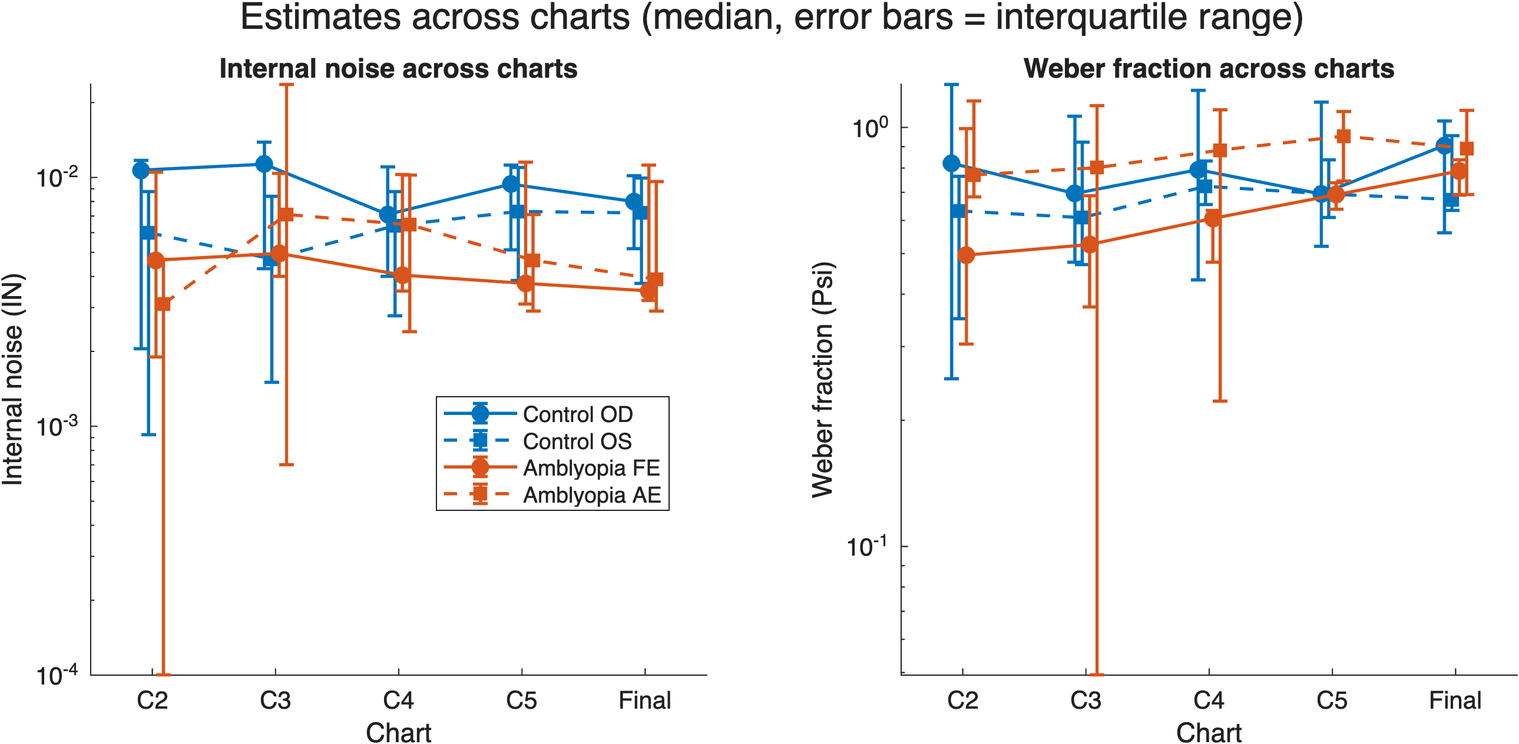
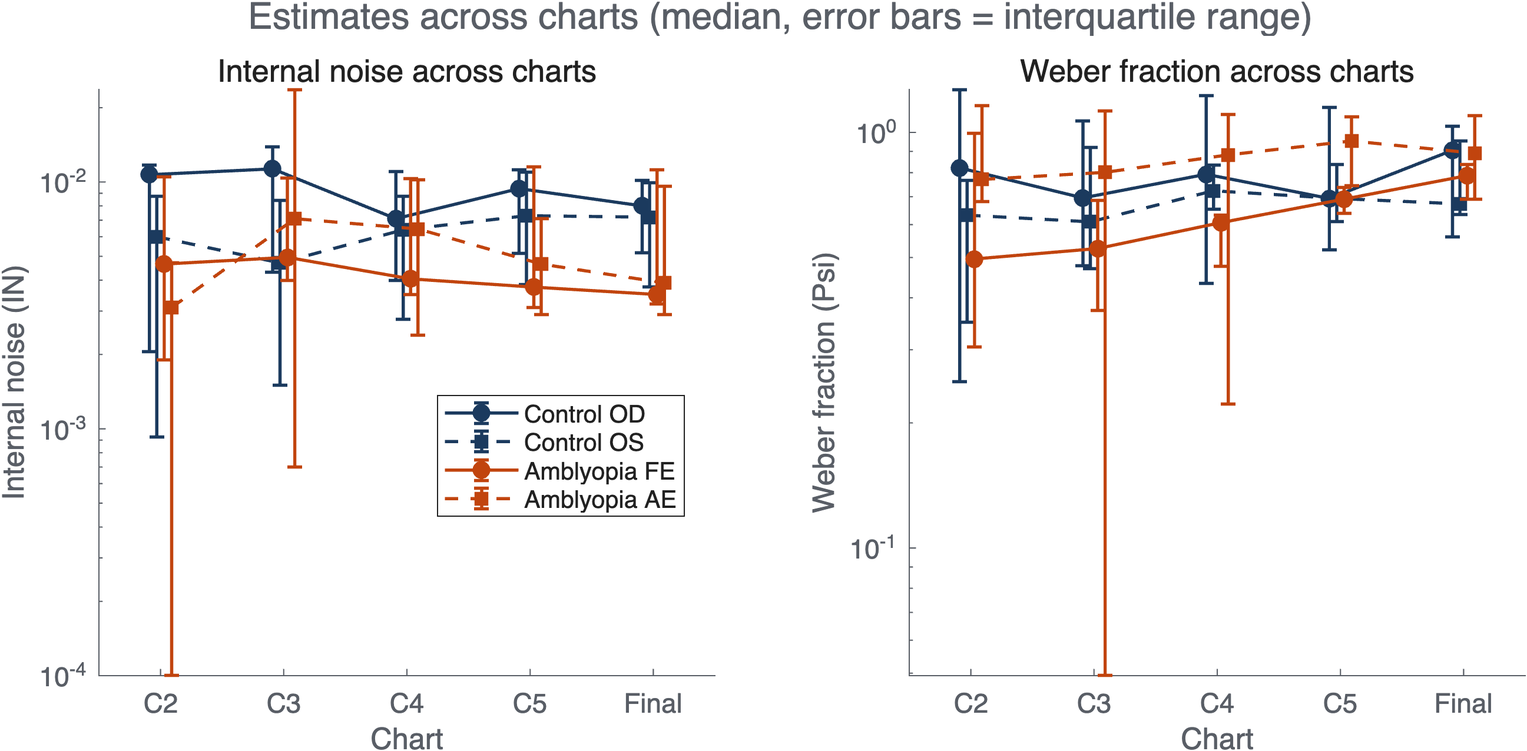
Restyle MATLAB figures to match dashboard theme; remove interocular-gap/age sections from dashboard

diff --git a/dashboard.html b/dashboard.html
@@ -260,30 +260,6 @@
 
   <hr class="rule">
 
-  <p class="q-eyebrow">QUESTION 3</p>
-  <h2 class="question">Is the interocular gap itself bigger in amblyopia?</h2>
-  <p class="question-sub">
-    Per-subject |eye1 &minus; eye2| magnitude (|AE&minus;FE| for amblyopes, |OD&minus;OS| for controls), compared
-    between groups &mdash; independent of which specific eye-pair comparison above. Kept as its own result,
-    not pooled into the Holm family above (matches analyze_WF_internal_noise.m's separate comparison family).
-  </p>
-  <table class="data-table" id="interocularTable"></table>
-
-  <hr class="rule">
-
-  <p class="q-eyebrow">QUESTION 4</p>
-  <h2 class="question">Does age matter?</h2>
-  <p class="question-sub">
-    This is a developmental sample (ages 6&ndash;17); amblyopia and control groups are age-matched
-    (p=0.64, not shown), but a mixed model checks whether adding Age as a covariate changes the Group effect.
-  </p>
-  <table class="data-table" id="ageTable"></table>
-  <p class="footnote">Model: log10(parameter) ~ Group &times; Eye (+ Age), Subject as random intercept. Age is not
-    a significant predictor for either parameter, and barely moves the Group coefficient or its p-value &mdash;
-    age isn't masking or confounding the Group/Eye results.</p>
-
-  <hr class="rule">
-
   <p class="q-eyebrow">ADDITIONAL FIGURES</p>
   <h2 class="question">From analyze_WF_internal_noise.m</h2>
   <p class="question-sub">
@@ -308,7 +284,7 @@
 
 </div>
 
-<script id="dashboard-data" type="application/json">{"subjects": [{"subject": 24, "group": "Amblyopia", "eyes": [{"physicalEye": "OD", "role": "Fellow eye", "colorGroup": "blue", "IN": 0.0029, "Psi": 0.8374, "atBound": false}, {"physicalEye": "OS", "role": "Amblyopic eye", "colorGroup": "orange", "IN": 0.004, "Psi": 0.6907, "atBound": false}]}, {"subject": 25, "group": "Amblyopia", "eyes": [{"physicalEye": "OD", "role": "Amblyopic eye", "colorGroup": "orange", "IN": 0.0038, "Psi": 0.6969, "atBound": false}, {"physicalEye": "OS", "role": "Fellow eye", "colorGroup": "blue", "IN": 0.0036, "Psi": 0.6898, "atBound": false}]}, {"subject": 27, "group": "Control", "eyes": [{"physicalEye": "OD", "role": "Control OD", "colorGroup": "blue", "IN": 0.0089, "Psi": 0.4331, "atBound": false}, {"physicalEye": "OS", "role": "Control OS", "colorGroup": "orange", "IN": 0.008, "Psi": 0.5433, "atBound": false}]}, {"subject": 28, "group": "Control", "eyes": [{"physicalEye": "OD", "role": "Control OD", "colorGroup": "blue", "IN": 0.0109, "Psi": 0.3205, "atBound": false}, {"physicalEye": "OS", "role": "Control OS", "colorGroup": "orange", "IN": 0.0106, "Psi": 0.6327, "atBound": false}]}, {"subject": 30, "group": "Control", "eyes": [{"physicalEye": "OD", "role": "Control OD", "colorGroup": "blue", "IN": 0.0023, "Psi": 0.6566, "atBound": false}, {"physicalEye": "OS", "role": "Control OS", "colorGroup": "orange", "IN": 0.0048, "Psi": 0.67, "atBound": false}]}, {"subject": 31, "group": "Control", "eyes": [{"physicalEye": "OD", "role": "Control OD", "colorGroup": "blue", "IN": 0.005, "Psi": 0.9057, "atBound": false}, {"physicalEye": "OS", "role": "Control OS", "colorGroup": "orange", "IN": 0.0022, "Psi": 0.6401, "atBound": false}]}, {"subject": 33, "group": "Control", "eyes": [{"physicalEye": "OD", "role": "Control OD", "colorGroup": "blue", "IN": 0.008, "Psi": 1.2348, "atBound": false}, {"physicalEye": "OS", "role": "Control OS", "colorGroup": "orange", "IN": 0.0034, "Psi": 0.8132, "atBound": false}]}, {"subject": 34, "group": "Control", "eyes": [{"physicalEye": "OD", "role": "Control OD", "colorGroup": "blue", "IN": 0.0028, "Psi": 1.0013, "atBound": false}, {"physicalEye": "OS", "role": "Control OS", "colorGroup": "orange", "IN": 0.0019, "Psi": 1.0407, "atBound": false}]}, {"subject": 35, "group": "Amblyopia", "eyes": [{"physicalEye": "OD", "role": "Fellow eye", "colorGroup": "blue", "IN": 0.0034, "Psi": 1.3795, "atBound": false}, {"physicalEye": "OS", "role": "Amblyopic eye", "colorGroup": "orange", "IN": 0.0029, "Psi": 2.0, "atBound": true}]}, {"subject": 36, "group": "Amblyopia", "eyes": [{"physicalEye": "OD", "role": "Amblyopic eye", "colorGroup": "orange", "IN": 0.0137, "Psi": 0.563, "atBound": false}, {"physicalEye": "OS", "role": "Fellow eye", "colorGroup": "blue", "IN": 0.0129, "Psi": 0.4947, "atBound": false}]}, {"subject": 37, "group": "Amblyopia", "eyes": [{"physicalEye": "OD", "role": "Fellow eye", "colorGroup": "blue", "IN": 0.0112, "Psi": 0.8109, "atBound": false}, {"physicalEye": "OS", "role": "Amblyopic eye", "colorGroup": "orange", "IN": 0.0096, "Psi": 1.0852, "atBound": false}]}, {"subject": 38, "group": "Control", "eyes": [{"physicalEye": "OD", "role": "Control OD", "colorGroup": "blue", "IN": 0.008, "Psi": 0.9086, "atBound": false}, {"physicalEye": "OS", "role": "Control OS", "colorGroup": "orange", "IN": 0.0072, "Psi": 1.1584, "atBound": false}]}, {"subject": 39, "group": "Control", "eyes": [{"physicalEye": "OD", "role": "Control OD", "colorGroup": "blue", "IN": 0.0057, "Psi": 1.0468, "atBound": false}, {"physicalEye": "OS", "role": "Control OS", "colorGroup": "orange", "IN": 0.0165, "Psi": 0.7169, "atBound": false}]}, {"subject": 40, "group": "Control", "eyes": [{"physicalEye": "OD", "role": "Control OD", "colorGroup": "blue", "IN": 0.0117, "Psi": 1.3493, "atBound": false}, {"physicalEye": "OS", "role": "Control OS", "colorGroup": "orange", "IN": 0.0111, "Psi": 0.6728, "atBound": false}]}, {"subject": 41, "group": "Amblyopia", "eyes": [{"physicalEye": "OD", "role": "Amblyopic eye", "colorGroup": "orange", "IN": 0.0019, "Psi": 1.0985, "atBound": false}, {"physicalEye": "OS", "role": "Fellow eye", "colorGroup": "blue", "IN": 0.0032, "Psi": 0.7633, "atBound": false}]}, {"subject": 42, "group": "Control", "eyes": [{"physicalEye": "OD", "role": "Control OD", "colorGroup": "blue", "IN": 0.0106, "Psi": 0.529, "atBound": false}, {"physicalEye": "OS", "role": "Control OS", "colorGroup": "orange", "IN": 0.0078, "Psi": 1.0024, "atBound": false}]}, {"subject": 43, "group": "Control", "eyes": [{"physicalEye": "OD", "role": "Control OD", "colorGroup": "blue", "IN": 0.0086, "Psi": 0.7441, "atBound": false}, {"physicalEye": "OS", "role": "Control OS", "colorGroup": "orange", "IN": 0.0067, "Psi": 0.5796, "atBound": false}]}], "groupMeans": {"Control OD": {"n": 11, "IN": 0.0067, "Psi": 0.7637}, "Control OS": {"n": 11, "IN": 0.0061, "Psi": 0.7471}, "Fellow eye": {"n": 6, "IN": 0.005, "Psi": 0.7905}, "Amblyopic eye": {"n": 6, "IN": 0.0047, "Psi": 0.9298}, "All Controls": {"n": 22, "IN": 0.0064, "Psi": 0.7554}, "All Amblyopes": {"n": 12, "IN": 0.0049, "Psi": 0.8573}}, "stats": [{"comparison": "Control OD vs Fellow eye", "parameter": "IN", "design": "independent", "n1": 11, "n2": 6, "t_stat": 0.8816984871055658, "t_p": 0.4018597677106117, "u_stat": 37.0, "u_p": 0.7248540304303692, "effect_size": 0.4787189883157015, "effect_label": "Cohen's d (log10 scale)", "ci_low": -0.5306616396605959, "ci_high": 1.4880996162919988, "t_p_holm": 1.0, "u_p_holm": 1.0, "group_mean_diff": 0.0017, "exceeds_mcd": false}, {"comparison": "Control OS vs Amblyopic eye", "parameter": "IN", "design": "independent", "n1": 11, "n2": 6, "t_stat": 0.6789588398050951, "t_p": 0.5132316177728691, "u_stat": 39.5, "u_p": 0.5462475915691775, "effect_size": 0.354680347831386, "effect_label": "Cohen's d (log10 scale)", "ci_low": -0.6481216778084151, "ci_high": 1.3574823734711872, "t_p_holm": 1.0, "u_p_holm": 1.0, "group_mean_diff": 0.0014, "exceeds_mcd": false}, {"comparison": "Fellow eye vs Amblyopic eye", "parameter": "IN", "design": "paired", "n1": 6, "n2": 6, "t_stat": 0.57240847379092, "t_p": 0.5918208539702479, "u_stat": 8.0, "u_p": 0.6875, "effect_size": 0.233684780872172, "effect_label": "Cohen's dz (log10 scale)", "ci_low": -0.579485003081023, "ci_high": 1.046854564825367, "t_p_holm": 1.0, "u_p_holm": 1.0, "group_mean_diff": 0.0003, "exceeds_mcd": false}, {"comparison": "Control OD vs Control OS", "parameter": "IN", "design": "paired", "n1": 11, "n2": 11, "t_stat": 0.5853410700768168, "t_p": 0.571290102128184, "u_stat": 18.0, "u_p": 0.2060546875, "effect_size": 0.1764869730754479, "effect_label": "Cohen's dz (log10 scale)", "ci_low": -0.4195157153146641, "ci_high": 0.7724896614655601, "t_p_holm": 1.0, "u_p_holm": 0.82421875, "group_mean_diff": 0.0006, "exceeds_mcd": false}, {"comparison": "Control OD vs Fellow eye", "parameter": "Psi", "design": "independent", "n1": 11, "n2": 6, "t_stat": -0.1795279548502803, "t_p": 0.8602265672269122, "u_stat": 34.0, "u_p": 0.9612152553329024, "effect_size": -0.0831558288313324, "effect_label": "Cohen's d (log10 scale)", "ci_low": -1.0783384780251613, "ci_high": 0.9120268203624964, "t_p_holm": 1.0, "u_p_holm": 1.0, "group_mean_diff": 0.0268, "exceeds_mcd": false}, {"comparison": "Control OS vs Amblyopic eye", "parameter": "Psi", "design": "independent", "n1": 11, "n2": 6, "t_stat": -1.0776812987551023, "t_p": 0.3185304023930704, "u_stat": 22.0, "u_p": 0.3010665804783452, "effect_size": -0.6497622140153673, "effect_label": "Cohen's d (log10 scale)", "ci_low": -1.6713129894555503, "ci_high": 0.3717885614248158, "t_p_holm": 0.9555912071792114, "u_p_holm": 0.9031997414350356, "group_mean_diff": 0.1827, "exceeds_mcd": true}, {"comparison": "Fellow eye vs Amblyopic eye", "parameter": "Psi", "design": "paired", "n1": 6, "n2": 6, "t_stat": -1.7734935356082095, "t_p": 0.1363326955594406, "u_stat": 3.0, "u_p": 0.15625, "effect_size": -0.7240257040607637, "effect_label": "Cohen's dz (log10 scale)", "ci_low": -1.6414396876668085, "ci_high": 0.1933882795452809, "t_p_holm": 0.5453307822377627, "u_p_holm": 0.625, "group_mean_diff": 0.1393, "exceeds_mcd": true}, {"comparison": "Control OD vs Control OS", "parameter": "Psi", "design": "paired", "n1": 11, "n2": 11, "t_stat": 0.1642787209953075, "t_p": 0.8727847689462629, "u_stat": 28.0, "u_p": 0.7001953125, "effect_size": 0.0495318980528104, "effect_label": "Cohen's dz (log10 scale)", "ci_low": -0.5418289177125079, "ci_high": 0.6408927138181287, "t_p_holm": 1.0, "u_p_holm": 1.0, "group_mean_diff": 0.0166, "exceeds_mcd": false}], "mcd": {"IN": 0.0023, "Psi": 0.1079}, "interocularDiff": [{"comparison": "Amblyopia |AE-FE| vs Control |OD-OS|", "parameter": "IN", "design": "independent", "n1": 6, "n2": 11, "t_stat": -1.7536311729614098, "t_p": 0.10262390557382961, "u_stat": 18.5, "u_p": 0.15915597452001962, "effect_size": -0.8145758407797158, "effect_label": "Cohen's d (log10 scale)", "ci_low": -1.8511426477059638, "ci_high": 0.22199096614653213}, {"comparison": "Amblyopia |AE-FE| vs Control |OD-OS|", "parameter": "Psi", "design": "independent", "n1": 6, "n2": 11, "t_stat": -0.5167959737804338, "t_p": 0.6192843966135919, "u_stat": 29.0, "u_p": 0.732546864899806, "effect_size": -0.2887800946600599, "effect_label": "Cohen's d (log10 scale)", "ci_low": -1.288871041870959, "ci_high": 0.7113108525508394}], "ageCovariate": [{"parameter": "IN", "with_age": false, "group_coef": 0.1082, "group_p": 0.4215, "age_coef": null, "age_p": null}, {"parameter": "IN", "with_age": true, "group_coef": 0.1186, "group_p": 0.3762, "age_coef": -0.0122, "age_p": 0.499}, {"parameter": "Psi", "with_age": false, "group_coef": -0.095, "group_p": 0.2242, "age_coef": null, "age_p": null}, {"parameter": "Psi", "with_age": true, "group_coef": -0.0856, "group_p": 0.2626, "age_coef": -0.011, "age_p": 0.2483}]}</script>
+<script id="dashboard-data" type="application/json">{"subjects": [{"subject": 24, "group": "Amblyopia", "eyes": [{"physicalEye": "OD", "role": "Fellow eye", "colorGroup": "blue", "IN": 0.0029, "Psi": 0.8374, "atBound": false}, {"physicalEye": "OS", "role": "Amblyopic eye", "colorGroup": "orange", "IN": 0.004, "Psi": 0.6907, "atBound": false}]}, {"subject": 25, "group": "Amblyopia", "eyes": [{"physicalEye": "OD", "role": "Amblyopic eye", "colorGroup": "orange", "IN": 0.0038, "Psi": 0.6969, "atBound": false}, {"physicalEye": "OS", "role": "Fellow eye", "colorGroup": "blue", "IN": 0.0036, "Psi": 0.6898, "atBound": false}]}, {"subject": 27, "group": "Control", "eyes": [{"physicalEye": "OD", "role": "Control OD", "colorGroup": "blue", "IN": 0.0089, "Psi": 0.4331, "atBound": false}, {"physicalEye": "OS", "role": "Control OS", "colorGroup": "orange", "IN": 0.008, "Psi": 0.5433, "atBound": false}]}, {"subject": 28, "group": "Control", "eyes": [{"physicalEye": "OD", "role": "Control OD", "colorGroup": "blue", "IN": 0.0109, "Psi": 0.3205, "atBound": false}, {"physicalEye": "OS", "role": "Control OS", "colorGroup": "orange", "IN": 0.0106, "Psi": 0.6327, "atBound": false}]}, {"subject": 30, "group": "Control", "eyes": [{"physicalEye": "OD", "role": "Control OD", "colorGroup": "blue", "IN": 0.0023, "Psi": 0.6566, "atBound": false}, {"physicalEye": "OS", "role": "Control OS", "colorGroup": "orange", "IN": 0.0048, "Psi": 0.67, "atBound": false}]}, {"subject": 31, "group": "Control", "eyes": [{"physicalEye": "OD", "role": "Control OD", "colorGroup": "blue", "IN": 0.005, "Psi": 0.9057, "atBound": false}, {"physicalEye": "OS", "role": "Control OS", "colorGroup": "orange", "IN": 0.0022, "Psi": 0.6401, "atBound": false}]}, {"subject": 33, "group": "Control", "eyes": [{"physicalEye": "OD", "role": "Control OD", "colorGroup": "blue", "IN": 0.008, "Psi": 1.2348, "atBound": false}, {"physicalEye": "OS", "role": "Control OS", "colorGroup": "orange", "IN": 0.0034, "Psi": 0.8132, "atBound": false}]}, {"subject": 34, "group": "Control", "eyes": [{"physicalEye": "OD", "role": "Control OD", "colorGroup": "blue", "IN": 0.0028, "Psi": 1.0013, "atBound": false}, {"physicalEye": "OS", "role": "Control OS", "colorGroup": "orange", "IN": 0.0019, "Psi": 1.0407, "atBound": false}]}, {"subject": 35, "group": "Amblyopia", "eyes": [{"physicalEye": "OD", "role": "Fellow eye", "colorGroup": "blue", "IN": 0.0034, "Psi": 1.3795, "atBound": false}, {"physicalEye": "OS", "role": "Amblyopic eye", "colorGroup": "orange", "IN": 0.0029, "Psi": 2.0, "atBound": true}]}, {"subject": 36, "group": "Amblyopia", "eyes": [{"physicalEye": "OD", "role": "Amblyopic eye", "colorGroup": "orange", "IN": 0.0137, "Psi": 0.563, "atBound": false}, {"physicalEye": "OS", "role": "Fellow eye", "colorGroup": "blue", "IN": 0.0129, "Psi": 0.4947, "atBound": false}]}, {"subject": 37, "group": "Amblyopia", "eyes": [{"physicalEye": "OD", "role": "Fellow eye", "colorGroup": "blue", "IN": 0.0112, "Psi": 0.8109, "atBound": false}, {"physicalEye": "OS", "role": "Amblyopic eye", "colorGroup": "orange", "IN": 0.0096, "Psi": 1.0852, "atBound": false}]}, {"subject": 38, "group": "Control", "eyes": [{"physicalEye": "OD", "role": "Control OD", "colorGroup": "blue", "IN": 0.008, "Psi": 0.9086, "atBound": false}, {"physicalEye": "OS", "role": "Control OS", "colorGroup": "orange", "IN": 0.0072, "Psi": 1.1584, "atBound": false}]}, {"subject": 39, "group": "Control", "eyes": [{"physicalEye": "OD", "role": "Control OD", "colorGroup": "blue", "IN": 0.0057, "Psi": 1.0468, "atBound": false}, {"physicalEye": "OS", "role": "Control OS", "colorGroup": "orange", "IN": 0.0165, "Psi": 0.7169, "atBound": false}]}, {"subject": 40, "group": "Control", "eyes": [{"physicalEye": "OD", "role": "Control OD", "colorGroup": "blue", "IN": 0.0117, "Psi": 1.3493, "atBound": false}, {"physicalEye": "OS", "role": "Control OS", "colorGroup": "orange", "IN": 0.0111, "Psi": 0.6728, "atBound": false}]}, {"subject": 41, "group": "Amblyopia", "eyes": [{"physicalEye": "OD", "role": "Amblyopic eye", "colorGroup": "orange", "IN": 0.0019, "Psi": 1.0985, "atBound": false}, {"physicalEye": "OS", "role": "Fellow eye", "colorGroup": "blue", "IN": 0.0032, "Psi": 0.7633, "atBound": false}]}, {"subject": 42, "group": "Control", "eyes": [{"physicalEye": "OD", "role": "Control OD", "colorGroup": "blue", "IN": 0.0106, "Psi": 0.529, "atBound": false}, {"physicalEye": "OS", "role": "Control OS", "colorGroup": "orange", "IN": 0.0078, "Psi": 1.0024, "atBound": false}]}, {"subject": 43, "group": "Control", "eyes": [{"physicalEye": "OD", "role": "Control OD", "colorGroup": "blue", "IN": 0.0086, "Psi": 0.7441, "atBound": false}, {"physicalEye": "OS", "role": "Control OS", "colorGroup": "orange", "IN": 0.0067, "Psi": 0.5796, "atBound": false}]}], "groupMeans": {"Control OD": {"n": 11, "IN": 0.0067, "Psi": 0.7637}, "Control OS": {"n": 11, "IN": 0.0061, "Psi": 0.7471}, "Fellow eye": {"n": 6, "IN": 0.005, "Psi": 0.7905}, "Amblyopic eye": {"n": 6, "IN": 0.0047, "Psi": 0.9298}, "All Controls": {"n": 22, "IN": 0.0064, "Psi": 0.7554}, "All Amblyopes": {"n": 12, "IN": 0.0049, "Psi": 0.8573}}, "stats": [{"comparison": "Control OD vs Fellow eye", "parameter": "IN", "design": "independent", "n1": 11, "n2": 6, "t_stat": 0.8816984871055658, "t_p": 0.4018597677106117, "u_stat": 37.0, "u_p": 0.7248540304303692, "effect_size": 0.4787189883157015, "effect_label": "Cohen's d (log10 scale)", "ci_low": -0.5306616396605959, "ci_high": 1.4880996162919988, "t_p_holm": 1.0, "u_p_holm": 1.0, "group_mean_diff": 0.0017, "exceeds_mcd": false}, {"comparison": "Control OS vs Amblyopic eye", "parameter": "IN", "design": "independent", "n1": 11, "n2": 6, "t_stat": 0.6789588398050951, "t_p": 0.5132316177728691, "u_stat": 39.5, "u_p": 0.5462475915691775, "effect_size": 0.354680347831386, "effect_label": "Cohen's d (log10 scale)", "ci_low": -0.6481216778084151, "ci_high": 1.3574823734711872, "t_p_holm": 1.0, "u_p_holm": 1.0, "group_mean_diff": 0.0014, "exceeds_mcd": false}, {"comparison": "Fellow eye vs Amblyopic eye", "parameter": "IN", "design": "paired", "n1": 6, "n2": 6, "t_stat": 0.57240847379092, "t_p": 0.5918208539702479, "u_stat": 8.0, "u_p": 0.6875, "effect_size": 0.233684780872172, "effect_label": "Cohen's dz (log10 scale)", "ci_low": -0.579485003081023, "ci_high": 1.046854564825367, "t_p_holm": 1.0, "u_p_holm": 1.0, "group_mean_diff": 0.0003, "exceeds_mcd": false}, {"comparison": "Control OD vs Control OS", "parameter": "IN", "design": "paired", "n1": 11, "n2": 11, "t_stat": 0.5853410700768168, "t_p": 0.571290102128184, "u_stat": 18.0, "u_p": 0.2060546875, "effect_size": 0.1764869730754479, "effect_label": "Cohen's dz (log10 scale)", "ci_low": -0.4195157153146641, "ci_high": 0.7724896614655601, "t_p_holm": 1.0, "u_p_holm": 0.82421875, "group_mean_diff": 0.0006, "exceeds_mcd": false}, {"comparison": "Control OD vs Fellow eye", "parameter": "Psi", "design": "independent", "n1": 11, "n2": 6, "t_stat": -0.1795279548502803, "t_p": 0.8602265672269122, "u_stat": 34.0, "u_p": 0.9612152553329024, "effect_size": -0.0831558288313324, "effect_label": "Cohen's d (log10 scale)", "ci_low": -1.0783384780251613, "ci_high": 0.9120268203624964, "t_p_holm": 1.0, "u_p_holm": 1.0, "group_mean_diff": 0.0268, "exceeds_mcd": false}, {"comparison": "Control OS vs Amblyopic eye", "parameter": "Psi", "design": "independent", "n1": 11, "n2": 6, "t_stat": -1.0776812987551023, "t_p": 0.3185304023930704, "u_stat": 22.0, "u_p": 0.3010665804783452, "effect_size": -0.6497622140153673, "effect_label": "Cohen's d (log10 scale)", "ci_low": -1.6713129894555503, "ci_high": 0.3717885614248158, "t_p_holm": 0.9555912071792114, "u_p_holm": 0.9031997414350356, "group_mean_diff": 0.1827, "exceeds_mcd": true}, {"comparison": "Fellow eye vs Amblyopic eye", "parameter": "Psi", "design": "paired", "n1": 6, "n2": 6, "t_stat": -1.7734935356082095, "t_p": 0.1363326955594406, "u_stat": 3.0, "u_p": 0.15625, "effect_size": -0.7240257040607637, "effect_label": "Cohen's dz (log10 scale)", "ci_low": -1.6414396876668085, "ci_high": 0.1933882795452809, "t_p_holm": 0.5453307822377627, "u_p_holm": 0.625, "group_mean_diff": 0.1393, "exceeds_mcd": true}, {"comparison": "Control OD vs Control OS", "parameter": "Psi", "design": "paired", "n1": 11, "n2": 11, "t_stat": 0.1642787209953075, "t_p": 0.8727847689462629, "u_stat": 28.0, "u_p": 0.7001953125, "effect_size": 0.0495318980528104, "effect_label": "Cohen's dz (log10 scale)", "ci_low": -0.5418289177125079, "ci_high": 0.6408927138181287, "t_p_holm": 1.0, "u_p_holm": 1.0, "group_mean_diff": 0.0166, "exceeds_mcd": false}], "mcd": {"IN": 0.0023, "Psi": 0.1079}}</script>
 <script>
 const DATA = JSON.parse(document.getElementById('dashboard-data').textContent);
 const COLORS = { blue: '#1b3a5e', orange: '#c1440e' };
@@ -462,30 +438,6 @@ document.getElementById('paramPills').addEventListener('click', e => {
   renderStatsTable(btn.dataset.param);
 });
 
-// ---- Question 3: interocular difference, Amblyopia vs Control ----
-const interocularTable = document.getElementById('interocularTable');
-interocularTable.innerHTML = `<tr><th>Parameter</th><th>Comparison</th><th class="num">n1</th><th class="num">n2</th>
-  <th class="num">t_p</th><th class="num">u_p</th><th class="num">Effect size</th><th class="num">95% CI</th></tr>` +
-  DATA.interocularDiff.map(r => `<tr>
-    <td>${r.parameter}</td><td>${r.comparison}</td>
-    <td class="num">${r.n1}</td><td class="num">${r.n2}</td>
-    <td class="num">${r.t_p.toFixed(3)}</td>
-    <td class="num">${r.u_p.toFixed(3)}</td>
-    <td class="num">${r.effect_size.toFixed(2)}</td>
-    <td class="num">[${r.ci_low.toFixed(2)}, ${r.ci_high.toFixed(2)}]</td>
-  </tr>`).join('');
-
-// ---- Question 4: age covariate ----
-const ageTable = document.getElementById('ageTable');
-ageTable.innerHTML = `<tr><th>Parameter</th><th>Model</th><th class="num">Group coef.</th><th class="num">Group p</th>
-  <th class="num">Age coef.</th><th class="num">Age p</th></tr>` +
-  DATA.ageCovariate.map(r => `<tr>
-    <td>${r.parameter}</td><td>${r.with_age ? '+ Age' : 'no age'}</td>
-    <td class="num">${r.group_coef.toFixed(3)}</td>
-    <td class="num">${r.group_p.toFixed(3)}</td>
-    <td class="num">${r.age_coef !== null ? r.age_coef.toFixed(3) : '&mdash;'}</td>
-    <td class="num">${r.age_p !== null ? r.age_p.toFixed(3) : '&mdash;'}</td>
-  </tr>`).join('');
 </script>
 </body>
 </html>

diff --git a/build_dashboard.py b/build_dashboard.py
@@ -22,8 +22,6 @@ import json
 import pandas as pd
 
 from plot_tvc_curves import load_final_rows, geometric_mean
-from tvc_stats import interocular_diff_test
-from tvc_age_covariate import summarize_for_dashboard as age_covariate_summary
 
 STATS_CSV = "results/tvc_stats_table.csv"
 DATA_OUT = "dashboard_data.json"
@@ -106,8 +104,6 @@ def main():
         "groupMeans": group_means,
         "stats": export_stats(group_means),
         "mcd": MCD,
-        "interocularDiff": interocular_diff_test(final),
-        "ageCovariate": age_covariate_summary(),
     }
     with open(DATA_OUT, "w") as f:
         json.dump(data, f, indent=2)
@@ -380,30 +376,6 @@ HTML_TEMPLATE = """<!DOCTYPE html>
 
   <hr class="rule">
 
-  <p class="q-eyebrow">QUESTION 3</p>
-  <h2 class="question">Is the interocular gap itself bigger in amblyopia?</h2>
-  <p class="question-sub">
-    Per-subject |eye1 &minus; eye2| magnitude (|AE&minus;FE| for amblyopes, |OD&minus;OS| for controls), compared
-    between groups &mdash; independent of which specific eye-pair comparison above. Kept as its own result,
-    not pooled into the Holm family above (matches analyze_WF_internal_noise.m's separate comparison family).
-  </p>
-  <table class="data-table" id="interocularTable"></table>
-
-  <hr class="rule">
-
-  <p class="q-eyebrow">QUESTION 4</p>
-  <h2 class="question">Does age matter?</h2>
-  <p class="question-sub">
-    This is a developmental sample (ages 6&ndash;17); amblyopia and control groups are age-matched
-    (p=0.64, not shown), but a mixed model checks whether adding Age as a covariate changes the Group effect.
-  </p>
-  <table class="data-table" id="ageTable"></table>
-  <p class="footnote">Model: log10(parameter) ~ Group &times; Eye (+ Age), Subject as random intercept. Age is not
-    a significant predictor for either parameter, and barely moves the Group coefficient or its p-value &mdash;
-    age isn't masking or confounding the Group/Eye results.</p>
-
-  <hr class="rule">
-
   <p class="q-eyebrow">ADDITIONAL FIGURES</p>
   <h2 class="question">From analyze_WF_internal_noise.m</h2>
   <p class="question-sub">
@@ -582,30 +554,6 @@ document.getElementById('paramPills').addEventListener('click', e => {
   renderStatsTable(btn.dataset.param);
 });
 
-// ---- Question 3: interocular difference, Amblyopia vs Control ----
-const interocularTable = document.getElementById('interocularTable');
-interocularTable.innerHTML = `<tr><th>Parameter</th><th>Comparison</th><th class="num">n1</th><th class="num">n2</th>
-  <th class="num">t_p</th><th class="num">u_p</th><th class="num">Effect size</th><th class="num">95% CI</th></tr>` +
-  DATA.interocularDiff.map(r => `<tr>
-    <td>${r.parameter}</td><td>${r.comparison}</td>
-    <td class="num">${r.n1}</td><td class="num">${r.n2}</td>
-    <td class="num">${r.t_p.toFixed(3)}</td>
-    <td class="num">${r.u_p.toFixed(3)}</td>
-    <td class="num">${r.effect_size.toFixed(2)}</td>
-    <td class="num">[${r.ci_low.toFixed(2)}, ${r.ci_high.toFixed(2)}]</td>
-  </tr>`).join('');
-
-// ---- Question 4: age covariate ----
-const ageTable = document.getElementById('ageTable');
-ageTable.innerHTML = `<tr><th>Parameter</th><th>Model</th><th class="num">Group coef.</th><th class="num">Group p</th>
-  <th class="num">Age coef.</th><th class="num">Age p</th></tr>` +
-  DATA.ageCovariate.map(r => `<tr>
-    <td>${r.parameter}</td><td>${r.with_age ? '+ Age' : 'no age'}</td>
-    <td class="num">${r.group_coef.toFixed(3)}</td>
-    <td class="num">${r.group_p.toFixed(3)}</td>
-    <td class="num">${r.age_coef !== null ? r.age_coef.toFixed(3) : '&mdash;'}</td>
-    <td class="num">${r.age_p !== null ? r.age_p.toFixed(3) : '&mdash;'}</td>
-  </tr>`).join('');
 </script>
 </body>
 </html>

diff --git a/analyze_WF_internal_noise.m b/analyze_WF_internal_noise.m
@@ -30,6 +30,18 @@
 
 clear; close all; clc;
 
+%% ===================== VISUAL STYLE (matches results dashboard) =====================
+set(groot, 'defaultAxesFontName', 'Helvetica');
+set(groot, 'defaultTextFontName', 'Helvetica');
+set(groot, 'defaultAxesFontSize', 11);
+set(groot, 'defaultAxesTitleFontWeight', 'normal');
+set(groot, 'defaultAxesTitleFontSizeMultiplier', 1.15);
+set(groot, 'defaultAxesXColor', [0.35 0.37 0.40]);
+set(groot, 'defaultAxesYColor', [0.35 0.37 0.40]);
+set(groot, 'defaultAxesGridColor', [0.90 0.91 0.92]);
+set(groot, 'defaultAxesGridAlpha', 1);
+set(groot, 'defaultAxesBox', 'off');
+
 %% ===================== USER SETTINGS =====================
 dataFile      = 'amblyopia_control_OD_OS_all_subjects-2.xlsx';  % file with EyeStatus column
 sheetName     = 'AllData';
@@ -46,7 +58,7 @@ wfUpperBound  = 2;       % Psi = 2 looks like the upper edge of the parameter gr
 excludeBoundaryValues = false;  % true = set boundary values to NaN
 excludeOutliers       = false;  % true = set MAD outliers (log scale) to NaN
 
-excludeSubjects = [26];  % whole subjects to drop (26: did not understand the task)
+excludeSubjects = [26, 32];  % whole subjects to drop (26: did not understand the task; 32: no TvC data recorded)
 
 convStat      = 'median'; % Fig3 summary: 'median' (median + IQR) or 'mean' (geometric mean +/- SEM)
 showIDs       = true;    % participant IDs on the last figure (Fig4, interocular difference)
@@ -72,8 +84,8 @@ grpNames = ["Control","Amblyopia"];
 eyeNames = ["OD","OS"];
 params   = {inVar, wfVar};
 pLabel   = {'Internal noise', 'Weber fraction'};
-cols     = [0.00 0.45 0.74;    % Control
-            0.85 0.33 0.10];   % Amblyopia
+cols     = [0.106 0.227 0.369;   % Control  (navy  #1b3a5e, matches dashboard)
+            0.757 0.267 0.055];  % Amblyopia (orange #c1440e, matches dashboard)
 
 if useLog
     tf = @(x) log10(max(x, logFloor));
@@ -451,7 +463,7 @@ for p = 1:numel(params)
     ylabel(sprintf('%s (%s)', pLabel{p}, params{p}));
     title(pLabel{p});
 end
-sgtitle('Final estimates: lines connect the two eyes of each subject; black bar = median');
+sgtitle('Final estimates: lines connect the two eyes of each subject; black bar = median', 'FontWeight','normal', 'Color',[0.35 0.37 0.40]);
 saveFig(fig1, fullfile(outDir,'Fig1_final_by_group_eye.png'));
 
 % 7b. Control vs FE vs AE
@@ -544,9 +556,9 @@ for p = 1:numel(params)
     if p==1, legend(h, lg, 'Location','best'); end
 end
 if strcmp(convStat,'median')
-    sgtitle('Estimates across charts (median, error bars = interquartile range)');
+    sgtitle('Estimates across charts (median, error bars = interquartile range)', 'FontWeight','normal', 'Color',[0.35 0.37 0.40]);
 else
-    sgtitle(sprintf('Estimates across charts (%s mean \\pm SEM)', ternary(useLog,'geometric','arithmetic')));
+    sgtitle(sprintf('Estimates across charts (%s mean \\pm SEM)', ternary(useLog,'geometric','arithmetic')), 'FontWeight','normal', 'Color',[0.35 0.37 0.40]);
 end
 saveFig(fig3, fullfile(outDir,'Fig3_convergence_across_charts.png'));
 
